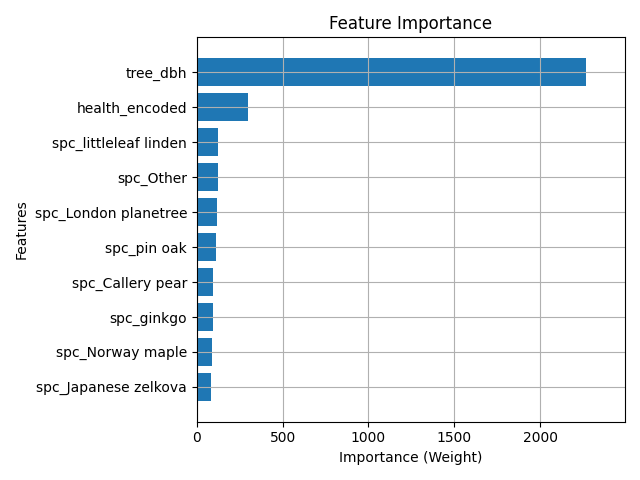
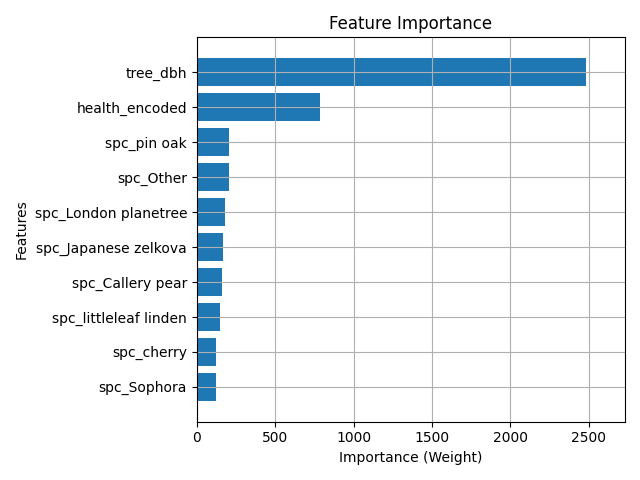
Refactor data processing and enhance visualizations
Refactored add_tree_costs.py for improved data cleaning, cost calculation, and output handling. Added dataset_summary.py to generate a summary infographic. Enhanced visualize_data.py with improved scatter and histogram plots, including mean/median annotations and color by health. Updated model_training.py to use new data paths and improved feature handling. Updated and added relevant visualization images.

diff --git a/visualize_data.py b/visualize_data.py
@@ -11,39 +11,55 @@ def visualize_tree_data(input_file_path, output_dir):
         input_file_path (str): The path to the input CSV file with cost data.
         output_dir (str): The directory to save the plots.
     """
+
     try:
-        # Read the data
         print(f"Reading data from {input_file_path}...")
         tree_data = pd.read_csv(input_file_path)
         print("Data read successfully.")
 
-        # Create output directory if it doesn't exist
         if not os.path.exists(output_dir):
             os.makedirs(output_dir)
 
-        # --- Visualization 1: Scatter plot of Diameter vs. Cost ---
-        print("Creating scatter plot of tree diameter vs. estimated cost...")
-        plt.figure(figsize=(10, 6))
-        sns.scatterplot(data=tree_data, x='tree_dbh', y='estimated_cost', alpha=0.5)
-        plt.title('Tree Diameter vs. Estimated Removal Cost')
-        plt.xlabel('Tree Diameter (inches)')
-        plt.ylabel('Estimated Cost ($)')
-        plt.grid(True)
+        import seaborn as sns
+        sns.set_theme(style="whitegrid")
+
+        # --- Visualization 1: Enhanced Scatter plot ---
+        plt.figure(figsize=(12, 8))
+        scatter = sns.scatterplot(
+            data=tree_data, x='tree_dbh', y='estimated_cost',
+            hue='health', palette='viridis', alpha=0.4, edgecolor=None, legend='brief')
+        plt.title('Tree Diameter vs. Estimated Removal Cost', fontsize=18, weight='bold')
+        plt.xlabel('Tree Diameter (inches)', fontsize=14)
+        plt.ylabel('Estimated Cost ($)', fontsize=14)
+        plt.grid(True, linestyle='--', alpha=0.6)
+        # Annotate mean and median
+        mean_cost = tree_data['estimated_cost'].mean()
+        median_cost = tree_data['estimated_cost'].median()
+        plt.axhline(mean_cost, color='red', linestyle='--', label=f'Mean Cost (${mean_cost:.0f})')
+        plt.axhline(median_cost, color='blue', linestyle=':', label=f'Median Cost (${median_cost:.0f})')
+        plt.legend()
         scatter_plot_path = os.path.join(output_dir, 'diameter_vs_cost_scatter.png')
-        plt.savefig(scatter_plot_path)
+        plt.tight_layout()
+        plt.savefig(scatter_plot_path, dpi=150)
         plt.close()
         print(f"Scatter plot saved to {scatter_plot_path}")
 
-        # --- Visualization 2: Histogram of Estimated Costs ---
-        print("Creating histogram of estimated costs...")
-        plt.figure(figsize=(10, 6))
-        sns.histplot(tree_data['estimated_cost'].dropna(), bins=50, kde=True)
-        plt.title('Distribution of Estimated Tree Removal Costs')
-        plt.xlabel('Estimated Cost ($)')
-        plt.ylabel('Number of Trees')
-        plt.grid(True)
+        # --- Visualization 2: Enhanced Histogram ---
+        plt.figure(figsize=(12, 8))
+        hist = sns.histplot(
+            tree_data['estimated_cost'].dropna(), bins=50, kde=True,
+            color='teal', edgecolor=None)
+        plt.title('Distribution of Estimated Tree Removal Costs', fontsize=18, weight='bold')
+        plt.xlabel('Estimated Cost ($)', fontsize=14)
+        plt.ylabel('Number of Trees', fontsize=14)
+        plt.grid(True, linestyle='--', alpha=0.6)
+        # Annotate mean and median
+        plt.axvline(mean_cost, color='red', linestyle='--', label=f'Mean (${mean_cost:.0f})')
+        plt.axvline(median_cost, color='blue', linestyle=':', label=f'Median (${median_cost:.0f})')
+        plt.legend()
         histogram_path = os.path.join(output_dir, 'cost_distribution_histogram.png')
-        plt.savefig(histogram_path)
+        plt.tight_layout()
+        plt.savefig(histogram_path, dpi=150)
         plt.close()
         print(f"Histogram saved to {histogram_path}")
 
@@ -53,7 +69,7 @@ def visualize_tree_data(input_file_path, output_dir):
         print(f"An error occurred: {e}")
 
 if __name__ == "__main__":
-    input_dir = 'NEWDATA'
+    input_dir = 'DATA'
     output_dir = 'VISUALIZATIONS'
     input_file_name = 'new_york_tree_census_2015_with_costs.csv'
     

diff --git a/add_tree_costs.py b/add_tree_costs.py
@@ -37,55 +37,45 @@ def calculate_tree_removal_cost(diameter):
     # Ensure cost is not negative and round to 2 decimal places
     return round(max(200, cost), 2)
 
-def process_tree_data(input_file_path, output_file_path):
-    """
-    Reads tree census data, calculates removal costs, and saves the
-    data to a new CSV file.
+# --- 1. LOAD DATA & APPLY PRE-PROCESSING ---
+print("--- Starting Data Processing Script ---")
+try:
+    # Use an absolute path for robustness
+    script_dir = os.path.dirname(os.path.abspath(__file__))
+    input_path = os.path.join("DATA", "OLDDATA", "new_york_tree_census_2015.csv")
+    tree_data = pd.read_csv(input_path)
+    print(f"Successfully loaded dataset from {input_path}")
+except FileNotFoundError:
+    print(f"FATAL ERROR: The data file was not found at {input_path}")
+    exit()
 
-    Args:
-        input_file_path (str): The path to the input CSV file.
-        output_file_path (str): The path where the output CSV file will be saved.
-    """
-    try:
-        # Read the CSV file
-        print(f"Reading data from {input_file_path}...")
-        tree_data = pd.read_csv(input_file_path)
-        print("Data read successfully.")
+# --- 2. DATA CLEANING ---
+# Remove rows with missing or zero diameter, as they cannot have a cost
+original_rows = len(tree_data)
+tree_data.dropna(subset=['tree_dbh'], inplace=True)
+tree_data = tree_data[tree_data['tree_dbh'] > 0]
+rows_after_nan = len(tree_data)
+print(f"Removed {original_rows - rows_after_nan} rows with missing or zero diameter.")
 
-        # Ensure the 'tree_dbh' column exists
-        if 'tree_dbh' not in tree_data.columns:
-            print("Error: 'tree_dbh' column not found in the input file.")
-            return
+# Remove extreme outliers that are likely data entry errors
+max_diameter = 60 # A generous but realistic cap for urban trees
+outliers = tree_data[tree_data['tree_dbh'] > max_diameter]
+num_outliers = len(outliers)
+if num_outliers > 0:
+    tree_data = tree_data[tree_data['tree_dbh'] <= max_diameter]
+    print(f"Removed {num_outliers} outlier trees with diameter > {max_diameter} inches.")
 
-        # Calculate the removal cost
-        print("Calculating removal costs...")
-        tree_data['estimated_cost'] = tree_data['tree_dbh'].apply(calculate_tree_removal_cost)
-        print("Cost calculation complete.")
+# --- 3. COST CALCULATION ---
+print("Calculating removal costs...")
+tree_data['estimated_cost'] = tree_data['tree_dbh'].apply(calculate_tree_removal_cost)
+print("Cost calculation complete.")
 
-        # Save the new dataframe to a CSV
-        print(f"Saving data to {output_file_path}...")
-        tree_data.to_csv(output_file_path, index=False)
-        print(f"Successfully created {output_file_path}")
+# --- 4. SAVE CLEANED DATA ---
+output_dir = os.path.join("DATA")
+os.makedirs(output_dir, exist_ok=True)
+output_path = os.path.join(output_dir, 'new_york_tree_census_2015_with_costs.csv')
 
-    except FileNotFoundError:
-        print(f"Error: The file {input_file_path} was not found.")
-    except Exception as e:
-        print(f"An error occurred: {e}")
-
-if __name__ == "__main__":
-    # Define file paths
-    input_dir = 'OLDDATA'
-    output_dir = 'NEWDATA'
-    input_file_name = 'new_york_tree_census_2015.csv'
-    output_file_name = 'new_york_tree_census_2015_with_costs.csv'
-
-    input_path = os.path.join(input_dir, input_file_name)
-    
-    # Create output directory if it doesn't exist
-    if not os.path.exists(output_dir):
-        os.makedirs(output_dir)
-        
-    output_path = os.path.join(output_dir, output_file_name)
-
-    # Process the data
-    process_tree_data(input_path, output_path)
+tree_data.to_csv(output_path, index=False)
+print(f"SUCCESS: Cleaned data with costs saved to '{output_path}'")
+print(f"Final dataset contains {len(tree_data)} rows.")
+print("\n--- Script Finished ---")

diff --git a/MODEL/model_training.py b/MODEL/model_training.py
@@ -11,7 +11,7 @@ print("--- Starting Model Training Script ---")
 try:
     # Use an absolute path based on the script's location to prevent file not found errors
     script_dir = os.path.dirname(os.path.abspath(__file__))
-    data_path = os.path.join(script_dir, 'new_york_tree_census_2015_with_costs.csv')
+    data_path = os.path.join(script_dir, '..', 'DATA', 'new_york_tree_census_2015_with_costs.csv')
     df = pd.read_csv(data_path)
     print(f"Successfully loaded dataset from {data_path}")
 except FileNotFoundError:
@@ -30,6 +30,9 @@ df.dropna(subset=[TARGET_VARIABLE], inplace=True)
 health_map = {'Poor': 1, 'Fair': 2, 'Good': 3}
 df['health_encoded'] = df['health'].map(health_map).fillna(2)
 
+health_map = {'Poor': 1, 'Fair': 2, 'Good': 3}
+df['health_encoded'] = df['health'].map(health_map).fillna(2)
+
 # To prevent the model from getting confused by too many rare species,
 # we group all but the top 10 most common species into an 'Other' category.
 top_10_species = df['spc_common'].value_counts().nlargest(10).index
@@ -40,7 +43,6 @@ species_dummies = pd.get_dummies(df['species_simplified'], prefix='spc')
 
 # --- 3. FINAL FEATURE SELECTION ---
 # Create a final, clean list of features for the model.
-# This is the crucial step to prevent data type errors.
 feature_list = ['tree_dbh', 'health_encoded'] + species_dummies.columns.tolist()
 X = pd.concat([df[['tree_dbh', 'health_encoded']], species_dummies], axis=1)[feature_list]
 y = df[TARGET_VARIABLE]
@@ -53,9 +55,7 @@ print(f"Data split into {len(X_train)} training and {len(X_test)} testing sample
 
 # --- 5. MODEL TRAINING ---
 print("Training XGBoost model...")
-# Initialize the XGBoost Regressor model
 model = xgb.XGBRegressor(n_estimators=100, learning_rate=0.1, random_state=42, objective='reg:squarederror')
-# Train the model on our training data
 model.fit(X_train, y_train)
 print("Model training complete.")
 
@@ -68,23 +68,17 @@ print("-------------------------\n")
 
 # --- 7. FEATURE IMPORTANCE & VISUALIZATION ---
 print("Generating feature importance plot...")
-# Define the output directory for the plot
-project_root = os.path.dirname(script_dir)
-output_dir = os.path.join(project_root, 'VISUALIZATIONS')
+output_dir = os.path.abspath(os.path.join(script_dir, '..', 'VISUALIZATIONS'))
 os.makedirs(output_dir, exist_ok=True)
 plot_path = os.path.join(output_dir, 'feature_importance.png')
 
-# Create the plot
 plt.figure(figsize=(10, 8))
 xgb.plot_importance(model, height=0.8, max_num_features=10, importance_type='weight', show_values=False, title='Feature Importance')
 plt.xlabel("Importance (Weight)")
 plt.tight_layout()
-
-# Save the plot
 plt.savefig(plot_path)
 print(f"SUCCESS: Feature importance plot saved to '{plot_path}'")
 
-# Attempt to show the plot in a window to confirm generation
 try:
     print("Attempting to display plot...")
     plt.show()

diff --git a/dataset_summary.py b/dataset_summary.py
@@ -1,0 +1,62 @@
+import pandas as pd
+import matplotlib.pyplot as plt
+import seaborn as sns
+import os
+
+# Load cleaned dataset
+data_path = os.path.join('DATA', 'new_york_tree_census_2015_with_costs.csv')
+df = pd.read_csv(data_path)
+
+# Prepare stats
+diameter_stats = df['tree_dbh'].describe()
+cost_stats = df['estimated_cost'].describe()
+health_counts = df['health'].value_counts(dropna=False)
+status_counts = df['status'].value_counts(dropna=False)
+top_species = df['spc_common'].value_counts().head(5)
+
+# Create infographic
+sns.set_theme(style="whitegrid")
+fig, axes = plt.subplots(2, 2, figsize=(16, 10))
+fig.suptitle('NYC Tree Census 2015: Dataset Summary', fontsize=20, weight='bold')
+
+# Diameter & Cost stats
+axes[0,0].axis('off')
+stats_text = (
+    f"Total Trees: {len(df):,}\n"
+    f"Diameter (inches):\n"
+    f"  Mean: {diameter_stats['mean']:.1f}\n"
+    f"  Median: {diameter_stats['50%']:.1f}\n"
+    f"  Min: {diameter_stats['min']:.1f}\n"
+    f"  Max: {diameter_stats['max']:.1f}\n"
+    f"Cost ($):\n"
+    f"  Mean: {cost_stats['mean']:.0f}\n"
+    f"  Median: {cost_stats['50%']:.0f}\n"
+    f"  Min: {cost_stats['min']:.0f}\n"
+    f"  Max: {cost_stats['max']:.0f}\n"
+)
+axes[0,0].text(0, 0.5, stats_text, fontsize=14, va='center', ha='left', family='monospace')
+axes[0,0].set_title('Key Statistics', fontsize=16, weight='bold')
+
+# Health distribution
+sns.barplot(x=health_counts.index, y=health_counts.values, ax=axes[0,1], palette='crest')
+axes[0,1].set_title('Tree Health Distribution', fontsize=16, weight='bold')
+axes[0,1].set_xlabel('Health')
+axes[0,1].set_ylabel('Count')
+
+# Status distribution
+sns.barplot(x=status_counts.index, y=status_counts.values, ax=axes[1,0], palette='flare')
+axes[1,0].set_title('Tree Status Distribution', fontsize=16, weight='bold')
+axes[1,0].set_xlabel('Status')
+axes[1,0].set_ylabel('Count')
+
+# Top species
+sns.barplot(y=top_species.index, x=top_species.values, ax=axes[1,1], palette='viridis')
+axes[1,1].set_title('Top 5 Tree Species', fontsize=16, weight='bold')
+axes[1,1].set_xlabel('Count')
+axes[1,1].set_ylabel('Species')
+
+plt.tight_layout(rect=[0, 0, 1, 0.96])
+output_path = os.path.join('VISUALIZATIONS', 'dataset_summary.png')
+plt.savefig(output_path, dpi=150)
+plt.close()
+print(f"Infographic saved to {output_path}")
